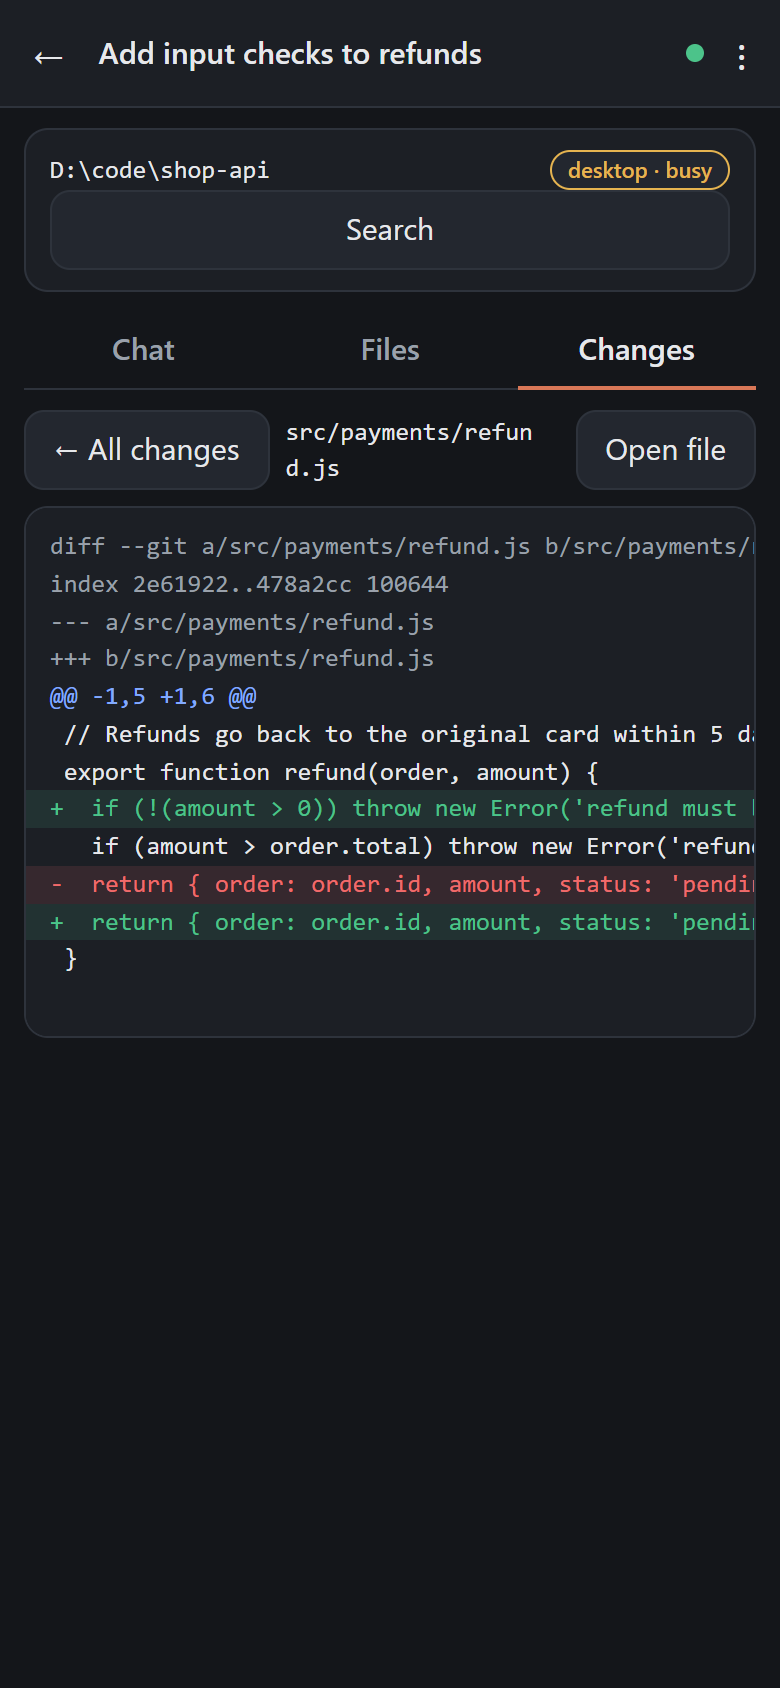
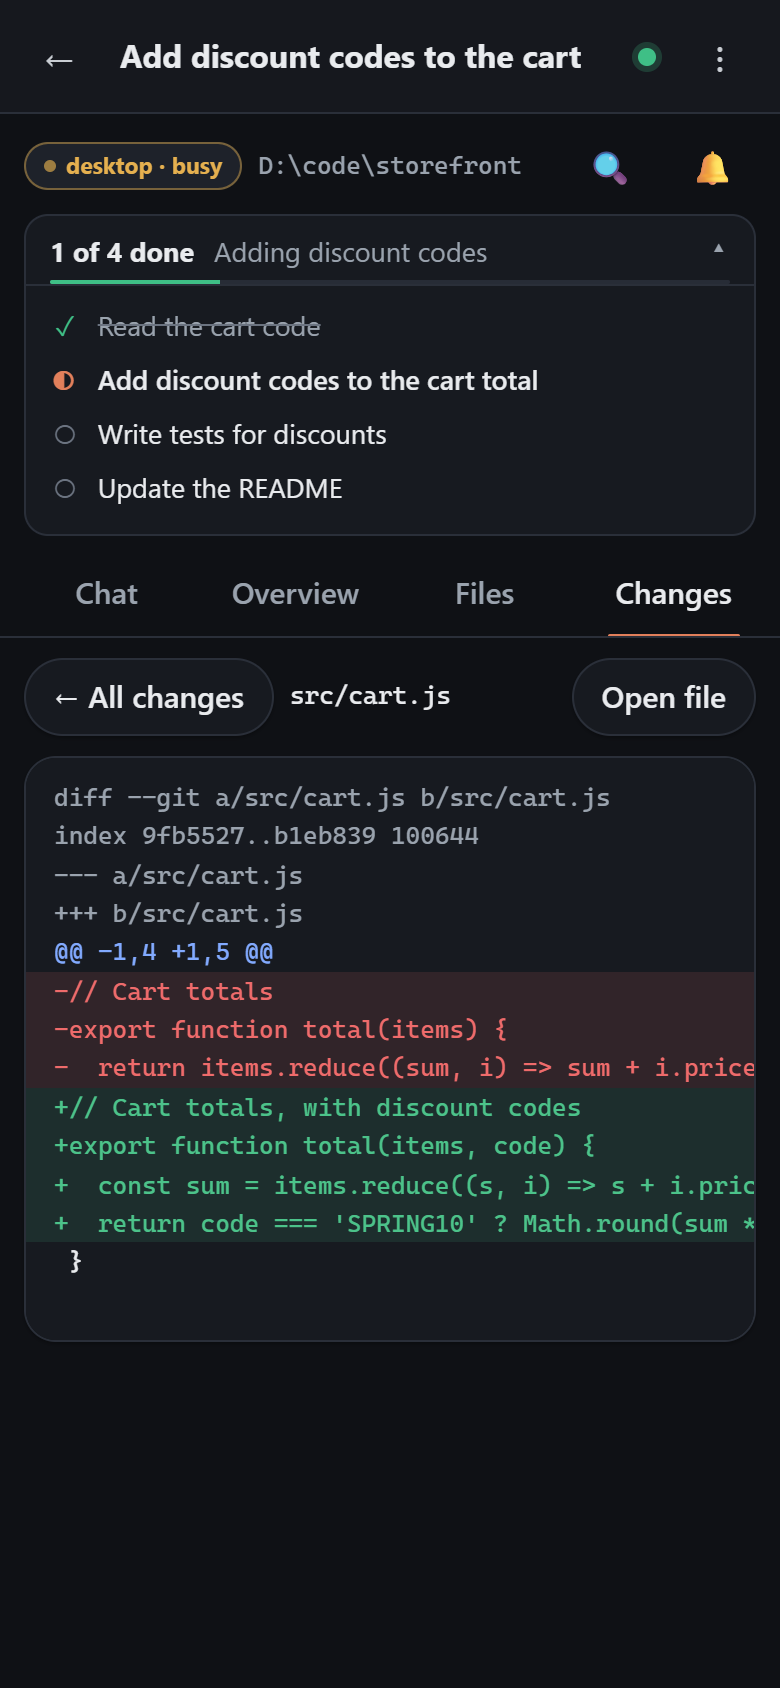
Version 1.2.0: new screenshots, README and changelog; small fixes
- README: screenshots of the new look (home, chat with the to-do list, a question,
  the Overview tab, a diff, and the sidebar layout on a computer) and the new features.
- Changelog for 1.2.0.
- Code in the Files and Changes tabs no longer joins => and === into one symbol.
- Search results show text instead of Markdown marks and table pipes.
- The model, effort and mode menus under the message box show their whole label
  and scroll sideways on a narrow phone.

diff --git a/public/app.js b/public/app.js
@@ -577,6 +577,9 @@ function onRunChange(r) {
 
 // ---------- search ----------
 // Text with every search word highlighted (built as DOM nodes, never HTML).
+// a search snippet without Markdown marks (# ** ` and table rules), so it reads as text
+const plainSnippet = s => String(s || '').replace(/\|?\s*:?-{3,}:?\s*(\|\s*:?-{3,}:?\s*)*\|?/g, ' ').replace(/(^|\s)#{1,6}\s+/g, '$1')
+  .replace(/\*\*|__|`/g, '').replace(/\s*\|\s*/g, ' · ').replace(/(\s*·\s*){2,}/g, ' · ').replace(/(\s·)+\s*$/, '').replace(/^\s*(·\s*)+/, '').replace(/\s{2,}/g, ' ').trim();
 function marked(text, terms) {
   const s = String(text || ''), low = s.toLowerCase(), out = [];
   let i = 0;
@@ -769,7 +772,7 @@ async function homeView() {
         const cards = d.results.map(r => h('a', { class: 'card', href: `#/s/${r.sessionId}?find=${encodeURIComponent(q)}` },
           h('div', { class: 't' }, h('span', {}, ...marked(r.title, terms))),
           h('div', { class: 's' }, `${base(r.cwd || r.projectKey)} · ${ago(r.mtime)}${r.total ? ` · ${r.total} message${r.total === 1 ? '' : 's'}` : ''}`),
-          ...r.hits.map(x => h('div', { class: 'hit' }, h('span', { class: 'who' }, x.kind === 'user' ? 'You' : 'Claude'), ' ', ...marked(x.snippet, terms)))));
+          ...r.hits.map(x => h('div', { class: 'hit' }, h('span', { class: 'who' }, x.kind === 'user' ? 'You' : 'Claude'), ' ', ...marked(plainSnippet(x.snippet), terms)))));
         results.replaceChildren(...[indexingNote(d), ...(cards.length ? cards : [h('div', { class: 'empty' }, 'No chat contains all of those words.')])].filter(Boolean));
       } catch (x) { if (my === seq) results.replaceChildren(h('div', { class: 'empty' }, x.message)); }
     };
@@ -1204,7 +1207,7 @@ async function sessionView(id, params = new URLSearchParams()) {
       findList.replaceChildren(...[indexingNote(d),
         hits.length ? h('div', { class: 'small muted' }, `${hits.length}${hits.length === 200 ? '+' : ''} message${hits.length === 1 ? '' : 's'}, newest first. Tap one to see it in context.`) : h('div', { class: 'empty' }, 'Not found in this chat.'),
         ...hits.map(x => h('button', { class: 'hit card', onclick: () => showInContext(id, x.offset, terms) },
-          h('span', { class: 'who' }, x.kind === 'user' ? 'You' : 'Claude'), x.ts ? h('span', { class: 'small muted' }, ' · ' + ago(Date.parse(x.ts))) : null, ' ', ...marked(x.snippet, terms)))
+          h('span', { class: 'who' }, x.kind === 'user' ? 'You' : 'Claude'), x.ts ? h('span', { class: 'small muted' }, ' · ' + ago(Date.parse(x.ts))) : null, ' ', ...marked(plainSnippet(x.snippet), terms)))
       ].filter(Boolean));
     } catch (x) { if (my === findSeq) findList.replaceChildren(h('div', { class: 'empty' }, x.message)); }
   };

diff --git a/public/style.css b/public/style.css
@@ -334,7 +334,7 @@ body.two-pane .composer { margin-left: -28px; margin-right: -28px; padding-left:
 .photo-btn .count { position: absolute; top: -3px; right: -3px; min-width: 18px; height: 18px; padding: 0 4px; border-radius: 9px; background: var(--accent); color: var(--on-accent); font-size: 11px; font-weight: 700; display: grid; place-items: center; }
 .composer .opts { display: flex; align-items: center; gap: 6px; margin-top: 8px; overflow-x: auto; scrollbar-width: none; }
 .composer .opts::-webkit-scrollbar { display: none; }
-.composer .opts select { flex: 0 1 auto; min-width: 0; max-width: 46%; min-height: 32px; padding: 4px 28px 4px 12px; font-size: 13px; background-color: var(--surface-2); border-color: transparent; background-position: calc(100% - 15px) 55%, calc(100% - 10px) 55%; }
+.composer .opts select { flex: none; min-width: 0; max-width: 72vw; min-height: 32px; padding: 4px 28px 4px 12px; font-size: 13px; background-color: var(--surface-2); border-color: transparent; background-position: calc(100% - 15px) 55%, calc(100% - 10px) 55%; }
 .composer .opts label { flex: none; margin-left: 4px; }
 .composer .notice { margin-bottom: 8px; font-size: 12.5px; }
 .composer .notice.live { color: var(--muted); display: flex; align-items: center; gap: 7px; }
@@ -451,6 +451,7 @@ pre.diff > span { display: block; padding: 0 14px; }
 @media (prefers-reduced-motion: reduce) {
   *, *::before, *::after { animation-duration: .01ms !important; animation-iteration-count: 1 !important; transition-duration: .01ms !important; }
 }
+pre, code, .mono, pre *, code * { font-variant-ligatures: none !important; } /* => and === as typed */
 ::-webkit-scrollbar { width: 10px; height: 10px; }
 ::-webkit-scrollbar-thumb { background: var(--border-strong); border-radius: 10px; border: 2px solid var(--bg); }
 ::-webkit-scrollbar-track { background: transparent; }

diff --git a/README.md b/README.md
@@ -8,10 +8,13 @@ It's a small Node.js server with no npm dependencies. It listens on `127.0.0.1` 
 
 <p align="center">
   <img src="docs/images/home.png" width="180" alt="Home: sessions running now, and every project">
+  <img src="docs/images/chat.png" width="180" alt="A chat: Claude's to-do list pinned at the top, tables and code shown properly">
   <img src="docs/images/question.png" width="180" alt="A question from Claude, answered with a tap">
-  <img src="docs/images/files.png" width="180" alt="Files tab: the project's code, coloured">
+  <img src="docs/images/overview.png" width="180" alt="Overview tab: time, files changed, commands, plan and to-do list">
   <img src="docs/images/changes.png" width="180" alt="Changes tab: what Claude changed, as a diff">
-  <img src="docs/images/search.png" width="180" alt="Search across every chat">
+</p>
+<p align="center">
+  <img src="docs/images/desktop.png" width="760" alt="On a computer or tablet: sessions and projects in a sidebar next to the open chat">
 </p>
 
 > Handoff is an independent open-source project. It is not affiliated with or endorsed by Anthropic. "Claude" and "Claude Code" are trademarks of Anthropic.
@@ -26,15 +29,20 @@ It's a small Node.js server with no npm dependencies. It listens on `127.0.0.1` 
   - start a new session in any folder
 - **Same choices as Claude Desktop.** The model list comes from your installed Claude Code, with each model's effort levels and the permission modes (Ask, Accept edits, Plan, Auto; Bypass only if you allow it).
 - **Attach photos.** Snap a screenshot or photo on your phone and send it with your prompt (up to 4, scaled down on the phone first).
-- **Approve tools from your phone.** Requests like "Allow Bash: npm test?" pop up with Allow and Deny buttons.
+- **Approve tools from your phone.** Requests like "Allow Bash: npm test?" pop up with Allow and Deny buttons, in the app or right on the notification.
 - **Answer Claude's questions.** When Claude asks a multiple-choice question, you see the options and tap one.
+- **Approve plans.** Claude's plan shows in full; approve it, approve it and let Claude make edits without asking, or send it back with what to change.
+- **Follow Claude's to-do list.** The checklist Claude keeps is pinned at the top of the chat: how far along it is and what it's doing now.
+- **See what a session did.** An Overview tab per chat: how long it ran, the files Claude changed, the commands it ran (and whether they worked), its plan, to-do list and sub-agents. Open any sub-agent run to see its own messages and tool calls.
+- **Quick replies.** "Continue", "Yes, go ahead", "Run the tests" and your own, one tap each, while Claude is waiting for you.
+- **Readable answers.** Tables, lists, links and code blocks (coloured, with a Copy button) show properly on a phone.
 - **Browse the project's files (optional).** A Files tab in every session shows its folder: find files by name, read code with colouring, preview Markdown, view images and download any file.
 - **See what Claude changed (optional).** A Changes tab lists the project's uncommitted git changes and shows each file's diff. Both tabs are read-only and off until you set `HANDOFF_FILE_BROWSER=true`.
 - **Search every chat.** One search box finds words in all your prompts and Claude's replies, across every project; each session can be searched on its own, and a hit opens in context.
 - **Remember me.** Tick it when you sign in on your own phone and it stays signed in for 30 days.
 - **Phone notifications.** Turn them on per device from the ⋮ menu and get the same alerts as notifications, even with the app closed. No WhatsApp, no account, nothing extra to install (on iPhone, add Handoff to the Home Screen first).
 - **WhatsApp alerts (optional).** Get a message when a session needs approval, asks a question, is waiting, finishes or fails. Reply `yes`/`no` or an option number to answer straight from WhatsApp. Set quiet hours (one summary afterwards) or mute individual projects. This uses a self-hosted sender built on the open-source [Baileys](https://github.com/WhiskeySockets/Baileys) library, so there's no paid API.
-- **Works on a phone.** The layout is responsive and touch-friendly, and you can install it to the home screen as a PWA.
+- **Works on a phone, tablet or computer.** Light and dark themes (or follow the system). On a phone the chat's status, actions and tabs stay pinned at the top; on a tablet or computer, sessions and projects stay in a sidebar. Install it to the home screen as an app: long-press its icon for New session or Search, and share text, links or photos to it from other apps (Android) to start a session.
 
 ## Pick your setup
 

diff --git a/CHANGELOG.md b/CHANGELOG.md
@@ -1,5 +1,29 @@
 # Changelog
 
+## 1.2.0 (2026-11-25)
+
+### Added
+- **New look**: light and dark themes (Auto follows the system), a compact message box, and a chat header that stays pinned with the status, folder, search, mute and tabs.
+- **Sidebar layout** on tablets and computers (1000px and wider): live sessions and projects next to the open chat.
+- **Live to-do list**: Claude's checklist (TaskCreate/TaskUpdate, or TodoWrite) pinned in the chat header.
+- **Plan approval**: Claude's plan (ExitPlanMode) as a card; approve, approve and accept edits, or send it back with what to change.
+- **Overview tab**: time, your messages, tool calls, files changed, commands run, plan, to-do list and sub-agents (`GET /api/sessions/:id/activity`).
+- **Sub-agent runs**: open what each sub-agent did, from the chat or the overview (`GET /api/sessions/:id/agents`).
+- **Quick replies** above the message box, editable.
+- **Allow / Deny on approval notifications** (where the phone shows notification buttons).
+- **Share to Handoff** from other apps on Android, and **home-screen shortcuts** (New session, Search all chats).
+- **Mute a single chat**, besides whole projects; a project's mute also covers its worktrees.
+
+### Changed
+- Markdown is rendered properly: tables (scrolling sideways on a phone), links, numbered/nested/task lists, quotes, and code blocks with a language label and a Copy button.
+- Tool rows show paths from the project folder; to-do updates are one quiet line; search rows show the pattern.
+- The page loads its script and styles by versioned addresses, so a CDN or browser cache can't serve old ones after an update.
+- Resetting the password keeps the 2FA you already set up.
+
+### Fixed
+- A muted project still got alerts from chats that had moved to another folder or ran in a worktree.
+- The sign-in page said "missing header" after an update until the page was reloaded; it now says to reload.
+
 ## 1.1.0 (2026-11-25)
 
 ### Added
